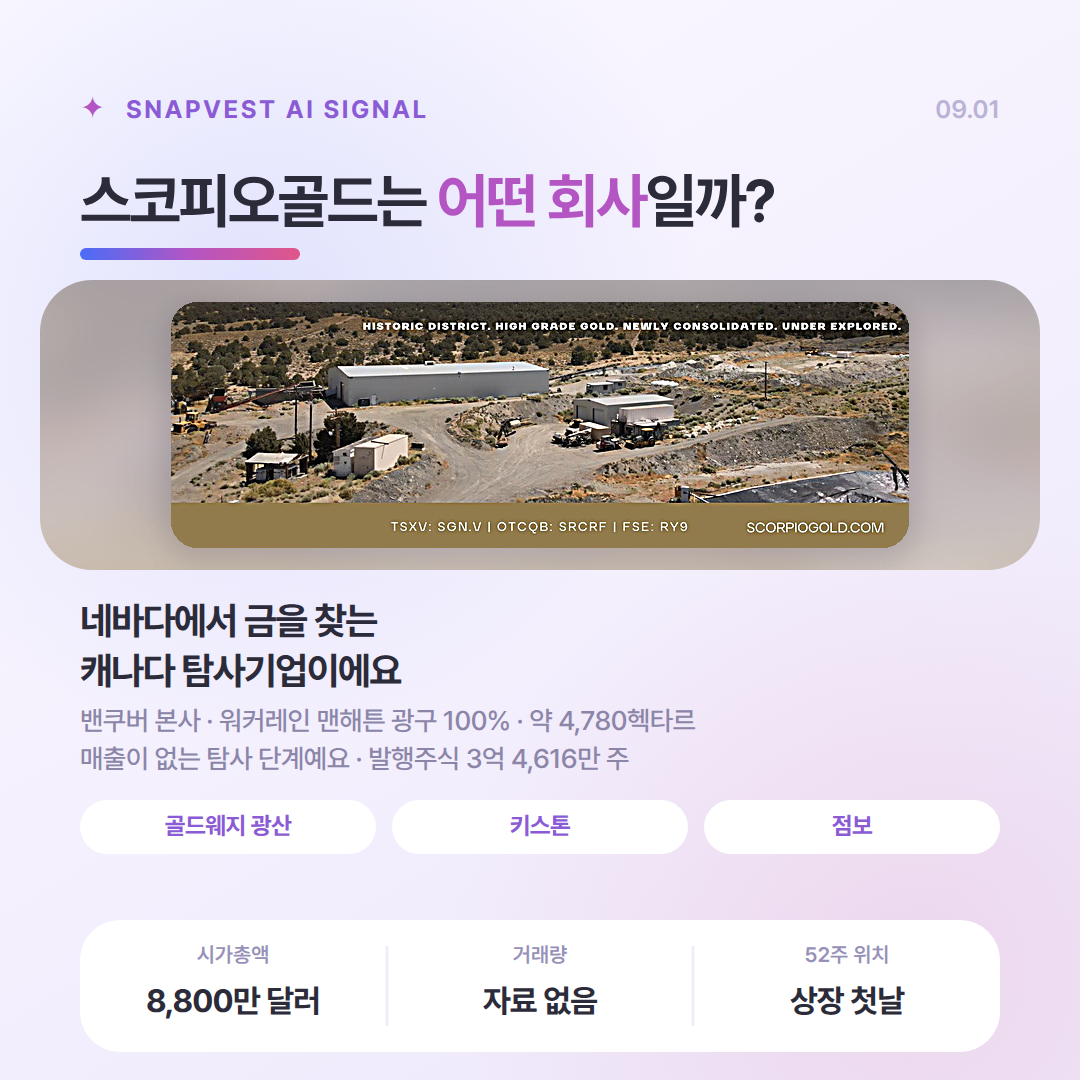
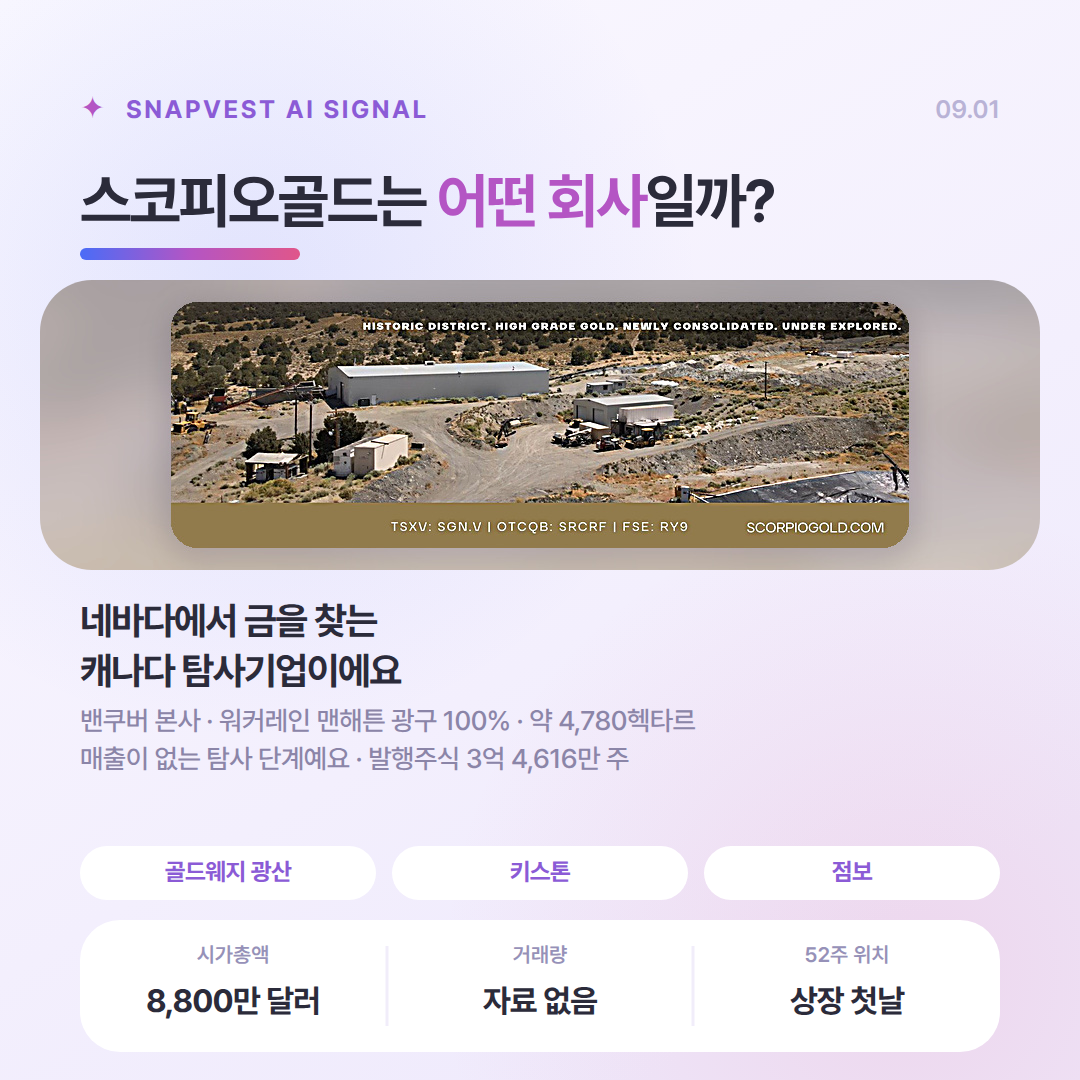
cardnews: 2번 카드 사업부문 칩을 지표 배너 바로 위로
칩 y 800 -> 846. 지표 배너(920) 와 20px 간격으로 붙어 한 덩어리로 읽힌다.
설명 문구와 요약 지표 사이 여백이 생겨 위계도 분명해졌다.

Claude-Session: https://claude.ai/code/session_01RMiKh4knUhoRQtbEt8tjeA

Changed region(s): [[0.4583, 0.7333, 0.9472, 0.8556], [0.1528, 0.7333, 0.275, 0.825]]

diff --git a/cardnews/generate.py b/cardnews/generate.py
@@ -148,8 +148,8 @@ def card2(c):
     segs, seg_svg = c.get("segments") or [], ""
     for i, s in enumerate(segs[:3]):
         x = 80 + i * 312
-        seg_svg += (f'  <rect x="{x}" y="800" width="296" height="54" rx="27" fill="#FFFFFF"/>\n'
-                    f'  <text x="{x + 148}" y="834" text-anchor="middle" font-size="24" '
+        seg_svg += (f'  <rect x="{x}" y="846" width="296" height="54" rx="27" fill="#FFFFFF"/>\n'
+                    f'  <text x="{x + 148}" y="880" text-anchor="middle" font-size="24" '
                     f'font-weight="700" letter-spacing="-0.5" fill="{PURPLE}">{esc(s)}</text>\n')
 
     return wrap(f'''{DEFS}
